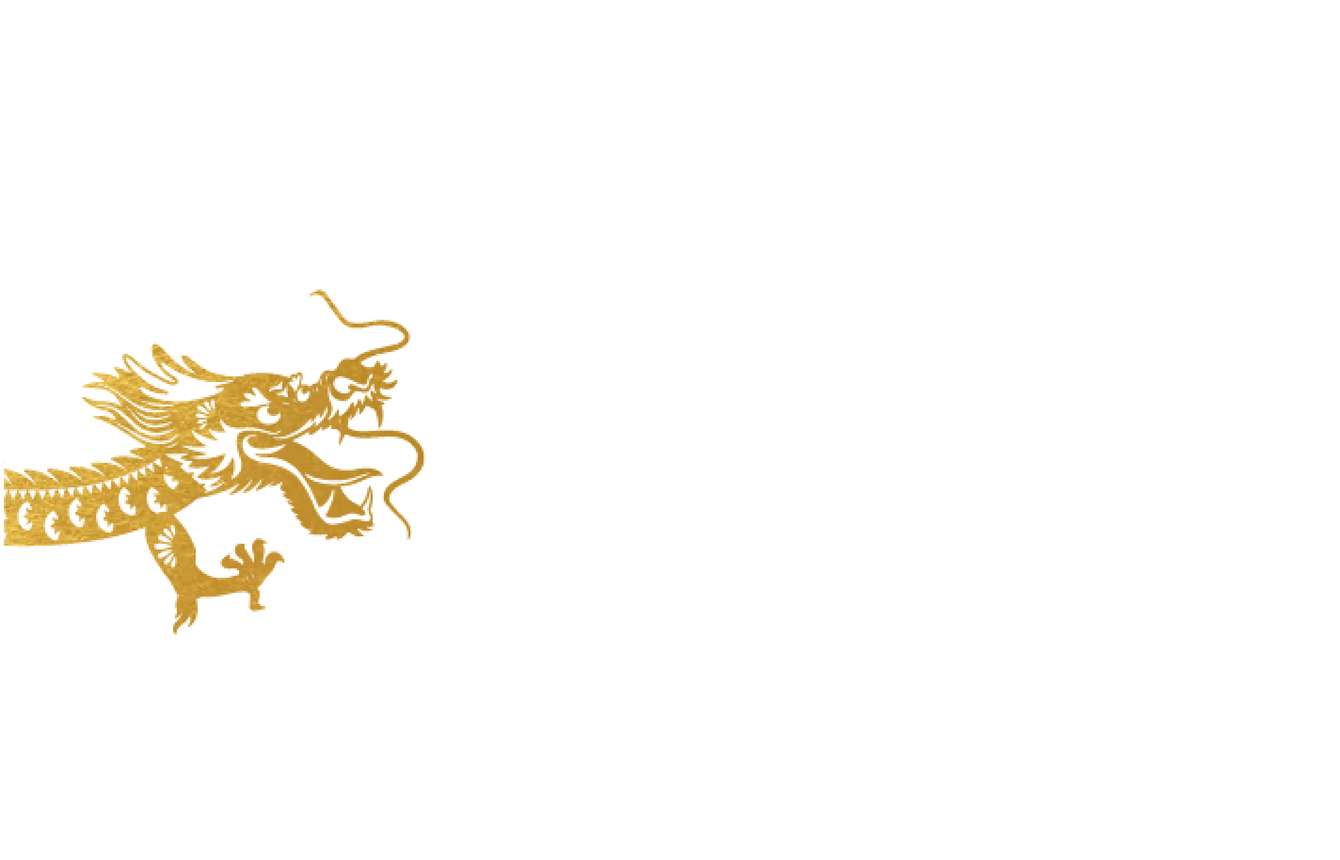
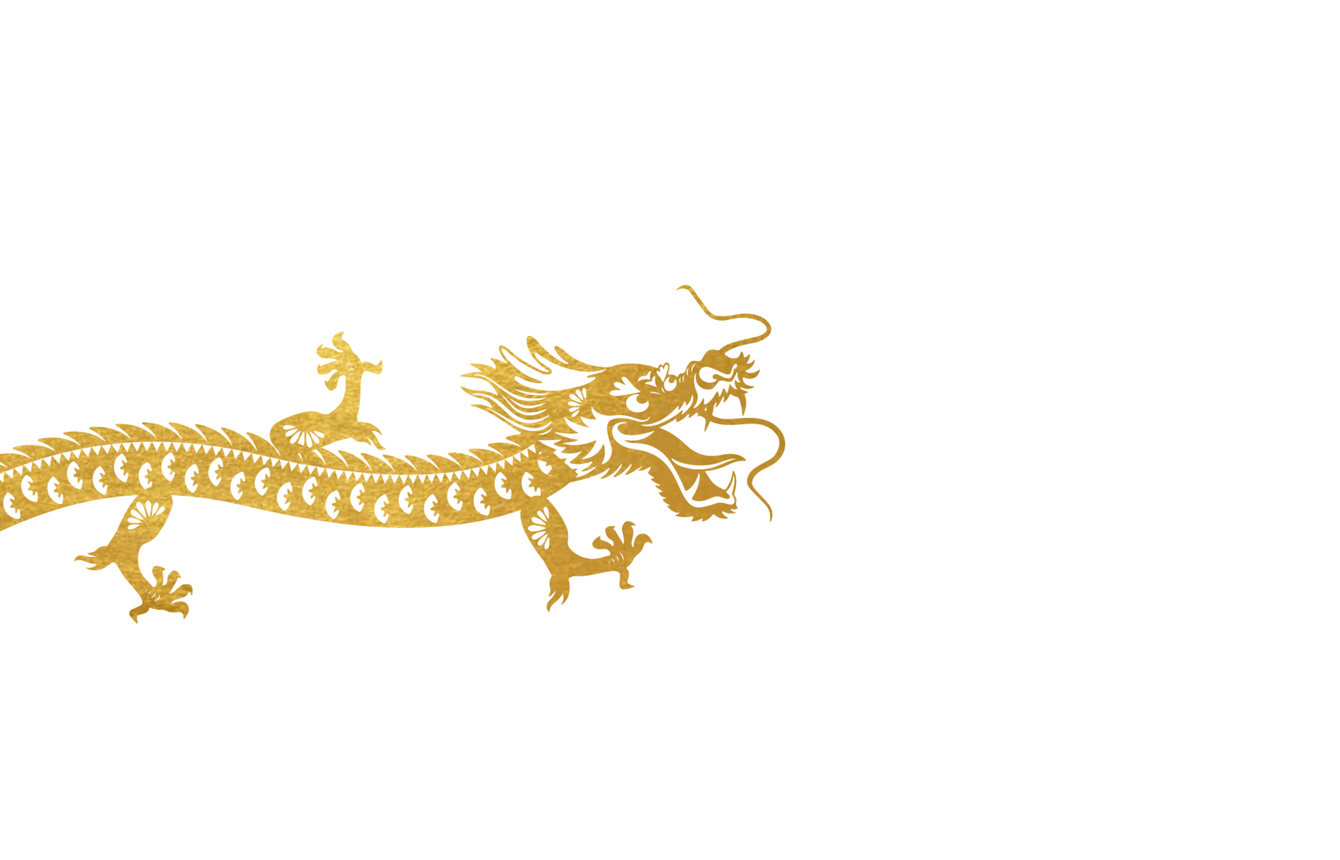
[modify] change image

Changed region(s): [[0.0, 0.3421, 0.59, 0.7463], [0.2174, 0.3421, 0.2484, 0.3731]]

diff --git a/docs/assets/index-e0ca7d98.css b/docs/assets/index-e0ca7d98.css
@@ -1,4 +1,4 @@
-@charset "UTF-8";@import"//fonts.googleapis.com/earlyaccess/notosanstc.css";:root{--vt-c-white: #ffffff;--vt-c-white-soft: #f8f8f8;--vt-c-white-mute: #f2f2f2;--vt-c-black: #181818;--vt-c-black-soft: #222222;--vt-c-black-mute: #282828;--vt-c-indigo: #2c3e50;--vt-c-divider-light-1: rgba(60, 60, 60, .29);--vt-c-divider-light-2: rgba(60, 60, 60, .12);--vt-c-divider-dark-1: rgba(84, 84, 84, .65);--vt-c-divider-dark-2: rgba(84, 84, 84, .48);--vt-c-text-light-1: var(--vt-c-indigo);--vt-c-text-light-2: rgba(60, 60, 60, .66);--vt-c-text-dark-1: var(--vt-c-white);--vt-c-text-dark-2: rgba(235, 235, 235, .64)}:root{--color-background: var(--vt-c-white);--color-background-soft: var(--vt-c-white-soft);--color-background-mute: var(--vt-c-white-mute);--color-border: var(--vt-c-divider-light-2);--color-border-hover: var(--vt-c-divider-light-1);--color-heading: var(--vt-c-text-light-1);--color-text: var(--vt-c-text-light-1);--section-gap: 160px}@media (prefers-color-scheme: dark){:root{--color-background: var(--vt-c-black);--color-background-soft: var(--vt-c-black-soft);--color-background-mute: var(--vt-c-black-mute);--color-border: var(--vt-c-divider-dark-2);--color-border-hover: var(--vt-c-divider-dark-1);--color-heading: var(--vt-c-text-dark-1);--color-text: var(--vt-c-text-dark-2)}}*,*:before,*:after{box-sizing:border-box;margin:0;font-weight:400}body{min-height:100vh;color:var(--color-text);background:var(--color-background);transition:color .5s,background-color .5s;line-height:1.6;font-family:Inter,-apple-system,BlinkMacSystemFont,Segoe UI,Roboto,Oxygen,Ubuntu,Cantarell,Fira Sans,Droid Sans,Helvetica Neue,sans-serif;font-size:15px;text-rendering:optimizeLegibility;-webkit-font-smoothing:antialiased;-moz-osx-font-smoothing:grayscale}body{font-family:Noto Sans TC,微軟正黑體,sans-serif!important;padding:0;margin:0}main{max-width:2733px;max-height:2049px;width:100%;height:100%;left:0;top:0;margin:0 auto;background-image:url(../assets/img/black_bg.png);position:absolute;background-position:top center;background-repeat:no-repeat;background-size:cover}main.yellow_bg{background-image:url(../assets/img/yellow_bg.png)}main.game_bg{background-image:url(../assets/img/game_bg.png)}main.game_intro_bg{background-image:url(../assets/img/game_intro_bg.png)}main.charm_bg{background-image:url(../assets/img/charm_bg.png)}main.final_bg{background-image:url(../assets/img/final_bg.png)}main .index_title_full{position:absolute;top:0;left:0;width:100%;height:100%;background-image:url(../assets/img/index_title.png);background-position:top -80px center;background-repeat:no-repeat;background-size:80%;z-index:2}main .game_header{position:absolute;top:0;left:0;width:100%;height:100%;background-image:url(../assets/img/game_header.png);background-position:top center;background-repeat:no-repeat;background-size:contain;z-index:2}main .game_header .game_score_ball{position:relative;width:5vw;height:5vw;background-position:center center;background-repeat:no-repeat;background-size:cover;z-index:1;margin:4vh .5vw;top:0;display:inline-block}main .game_header .game_score_ball:first-child{margin-left:3.2vw}main .game_header .game_score_ball.wind_ball{background-image:url(../assets/img/game_ball_wind.png)}main .game_header .game_score_ball.cloud_ball{background-image:url(../assets/img/game_ball_cloud.png)}main .game_header .game_score_ball.infinite_ball{background-image:url(../assets/img/game_ball_infinite.png)}main .left_top_logo{position:absolute;top:50px;left:30px;width:290px;height:53px;background-image:url(../assets/img/logo.png);background-position:center center;background-repeat:no-repeat;background-size:cover;z-index:1}main .right_top_play_button{position:absolute;top:35px;right:35px;width:70px;height:70px;background-image:url(../assets/img/right_top_play_button.png);background-position:center center;background-repeat:no-repeat;background-size:cover;z-index:10}main .main_product_full{position:absolute;top:0;left:0;width:100%;height:100%;background-image:url(../assets/img/main_product_full.png);background-position:top center;background-repeat:no-repeat;background-size:cover;z-index:1}main .charm_main{position:absolute;top:12vh;left:16vw;width:28vw;height:45vw;background-image:url(../assets/img/charm.png),url(../assets/img/charm_shadow.png);background-position:center center;background-repeat:no-repeat;background-size:cover,120%;z-index:1}main .charm_ball{position:absolute;top:0;left:0;width:11vw;height:11vw;background-position:center center;background-repeat:no-repeat;background-size:cover,188%;z-index:1}main .charm_ball.charm_ball_cloud{top:40vh;left:3vw;background-image:url(../assets/img/game_ball_cloud.png),url(../assets/img/game_ball_shadow.png);animation:floatAnimationCloud 6s infinite}main .charm_ball.charm_ball_wind{top:67vh;left:43vw;background-image:url(../assets/img/game_ball_wind.png),url(../assets/img/game_ball_shadow.png);animation:floatAnimationWind 10s infinite}main .charm_ball.charm_ball_infinite{top:10vh;left:45vw;background-image:url(../assets/img/game_ball_infinite.png),url(../assets/img/game_ball_shadow.png);animation:floatAnimationInfinite 8s infinite}@keyframes floatAnimationCloud{0%{transform:translateY(0) rotate(0)}50%{transform:translateY(-15px) rotate(-3deg)}to{transform:translateY(0) rotate(0)}}@keyframes floatAnimationInfinite{0%{transform:translateY(0) rotate(0)}50%{transform:translateY(-10px) translate(-15px) rotate(-3deg)}to{transform:translateY(0) rotate(0)}}@keyframes floatAnimationWind{0%{transform:translateY(0) rotate(0)}50%{transform:translateY(10px) translate(-15px) rotate(-3deg)}to{transform:translateY(0) rotate(0)}}main .left_down_cloud{position:absolute;bottom:0;left:0;width:50%;height:40%;background-image:url(../assets/img/left_down_cloud.png);background-position:center center;background-repeat:no-repeat;background-size:cover;z-index:3}main .right_down_belt{position:absolute;bottom:0;right:0;width:100%;height:100%;background-image:url(../assets/img/right_belt_slogan.png);background-position:center center;background-repeat:no-repeat;background-size:cover;z-index:1}main .ground{position:absolute;bottom:0;left:0;width:100%;height:25%;background-image:url(../assets/img/ground.png);background-position:bottom center;background-repeat:no-repeat;background-size:cover}main .ground_wave{position:absolute;bottom:0;left:0;width:100%;height:20%;background-image:url(../assets/img/wave_ground.png);background-position:bottom center;background-repeat:no-repeat;background-size:cover;z-index:2}main .ground_wave.intro_1{z-index:4}main .ground_wave.intro_2{z-index:3}main .left_down_woman_full{position:absolute;top:0;left:0;width:100%;height:100%;background-image:url(../assets/img/woman.png);background-position:center center;background-repeat:no-repeat;background-size:cover;z-index:5}main .left_down_woman_small{position:absolute;top:0;left:0;width:100%;height:100%;background-image:url(../assets/img/woman.png);background-position:top 100% left;background-repeat:no-repeat;background-size:70%;z-index:5}main .dragon_right_small{position:absolute;bottom:20%;right:0%;width:20%;height:72%;background-image:url(../assets/img/dragon_right_small.png);background-position:top left;background-repeat:no-repeat;background-size:cover}main .dragon_right_big_full{position:absolute;bottom:0%;right:0%;width:100%;height:100%;background-image:url(../assets/img/dragon_right_big.png);background-position:top -80px right -180px;background-repeat:no-repeat;background-size:105%}main .left_top_logo_full{position:absolute;top:0;left:0;width:100%;height:100%;background-image:url(../assets/img/logo_left_top.png);background-position:top -100px left;background-repeat:no-repeat;background-size:110%;z-index:1}main .intro_2_main_full{position:absolute;top:0;left:0;width:100%;height:100%;background-image:url(../assets/img/intro_2_main.png);background-position:top 50px left -10px;background-repeat:no-repeat;background-size:cover;z-index:1}main .intro_2_main_title{position:absolute;top:0;left:0;width:100%;height:100%;background-image:url(../assets/img/intro_2_title.png);background-position:center center;background-repeat:no-repeat;background-size:cover;z-index:1}main .intro_ball{position:absolute;top:0;width:33.3333333333%;height:100%;z-index:1;color:#d6bd57;text-align:center}main .intro_ball h1{font-size:50px;font-weight:900}main .intro_ball .intro_ball_img{position:relative;top:0;left:0;width:80%;height:350px;margin:19.5vh auto 0;background-position:center center;background-repeat:no-repeat;background-size:contain}main .intro_ball.intro_ball_1{left:0}main .intro_ball.intro_ball_1 .intro_ball_img{background-image:url(../assets/img/game_ball_cloud.png)}main .intro_ball.intro_ball_2{left:34%}main .intro_ball.intro_ball_2 .intro_ball_img{background-image:url(../assets/img/game_ball_wind.png)}main .intro_ball.intro_ball_3{left:66%}main .intro_ball.intro_ball_3 .intro_ball_img{background-image:url(../assets/img/game_ball_infinite.png)}main .right_down_belt_without_slogan{position:absolute;bottom:0;right:0;width:100%;height:100%;background-image:url(../assets/img/right_down_belt_without_slogan.png);background-position:right bottom;background-repeat:no-repeat;background-size:80%;z-index:3}main .game_frame{position:absolute;top:0;left:0;width:100%;height:100%;background-image:url(../assets/img/game_frame.png);background-position:bottom 18% center;background-repeat:no-repeat;background-size:95%;z-index:4}@keyframes floatAnimation{0%{transform:translateY(0) rotate(0)}50%{transform:translateY(-30px) rotate(-3deg)}to{transform:translateY(0) rotate(0)}}main .game_dragon{position:absolute;top:25%;left:0;width:50%;height:40%;background-image:url(../assets/img/side_dragon.png);background-position:center left;background-repeat:no-repeat;background-size:175%;z-index:1;animation:floatAnimation 6s infinite}main .game_ball_rails{position:absolute;top:0;left:0;width:100%;height:100%;z-index:10;overflow:hidden}main .game_ball_rails .game_ball{position:absolute;width:100px;height:100px;z-index:1;animation:ballAnimation 8s linear forwards}main .game_ball_rails .game_ball.clicked{animation-play-state:paused}main .game_ball_rails .game_ball.clicked .ball_container{animation:clickAnimation .2s linear forwards}main .game_ball_rails .game_ball .ball_container{position:absolute;width:100px;height:100px;top:0;left:0;background-image:url(../assets/img/game_ball.png);background-position:center center;background-repeat:no-repeat;background-size:cover}main .game_ball_rails .game_ball .ball_container.wind_ball{background-image:url(../assets/img/game_ball_wind.png)}main .game_ball_rails .game_ball .ball_container.cloud_ball{background-image:url(../assets/img/game_ball_cloud.png)}main .game_ball_rails .game_ball .ball_container.infinite_ball{background-image:url(../assets/img/game_ball_infinite.png)}@keyframes clickAnimation{0%{transform:scale(1)}50%{transform:scale(.8)}to{transform:scale(1)}}main .game_ball_rails .game_ball .game_ball_text{position:absolute;left:110px;width:200px;color:#dc000c;font-size:30px;font-weight:900;line-height:85px;text-shadow:2px 2px 3px #f0bd6e,-2px 2px 3px #f0bd6e,-2px -2px 0 #f0bd6e,2px -2px 0 #f0bd6e;animation:textAnimation .1s linear forwards}@keyframes textAnimation{0%{transform:translate(-110px);opacity:0}to{transform:translate(0);opacity:1}}main .game_ball_rails .game_ball .game_ball_light{position:absolute;left:-50px;top:-50px;width:200px;height:200px;background-image:url(../assets/img/ball_light.png);background-position:center center;background-repeat:no-repeat;background-size:contain;z-index:-1;opacity:.3}main .game_ball_rails .game_ball .game_ball_star{position:absolute;left:-50px;top:-50px;width:150px;height:200px;background-image:url(../assets/img/game_ball_star.png);background-position:center center;background-repeat:no-repeat;background-size:contain;animation:starAnimation .1s linear forwards}@keyframes starAnimation{0%{transform:scale(.5);opacity:0}to{transform:scale(1);opacity:1}}@keyframes ballAnimation{0%{transform:translate(110vw)}to{transform:translate(-10vw)}}main .game_ball_rails .game_ball_rail_1{height:10%;width:100%;top:20%;position:absolute}main .game_ball_rails .game_ball_rail_2{height:10%;width:100%;top:35%;position:absolute}main .game_ball_rails .game_ball_rail_3{height:10%;width:100%;top:50%;position:absolute}main .game_ball_rails .game_ball_rail_4{height:10%;width:100%;top:65%;position:absolute}main .game_ball_rails .game_ball_rail_5{height:10%;width:100%;top:80%;position:absolute}main .countdown{position:absolute;top:0;left:calc(50% - 100px);width:200px;height:100%;z-index:3;background-position:center left;background-repeat:no-repeat;background-size:100%;animation:fadein 1s,fadeout 1s 3s}main .countdown.countdown_3{background-image:url(../assets/img/game_count_down_3.png)}main .countdown.countdown_2{background-image:url(../assets/img/game_count_down_2.png)}main .countdown.countdown_1{background-image:url(../assets/img/game_count_down_1.png)}@keyframes fadein{0%{opacity:0}to{opacity:1}}@keyframes fadeout{0%{opacity:1}to{opacity:0}}main .intro_slogan{font-size:25px;top:35%;left:32%;position:absolute;z-index:3}/*!
+@charset "UTF-8";@import"//fonts.googleapis.com/earlyaccess/notosanstc.css";:root{--vt-c-white: #ffffff;--vt-c-white-soft: #f8f8f8;--vt-c-white-mute: #f2f2f2;--vt-c-black: #181818;--vt-c-black-soft: #222222;--vt-c-black-mute: #282828;--vt-c-indigo: #2c3e50;--vt-c-divider-light-1: rgba(60, 60, 60, .29);--vt-c-divider-light-2: rgba(60, 60, 60, .12);--vt-c-divider-dark-1: rgba(84, 84, 84, .65);--vt-c-divider-dark-2: rgba(84, 84, 84, .48);--vt-c-text-light-1: var(--vt-c-indigo);--vt-c-text-light-2: rgba(60, 60, 60, .66);--vt-c-text-dark-1: var(--vt-c-white);--vt-c-text-dark-2: rgba(235, 235, 235, .64)}:root{--color-background: var(--vt-c-white);--color-background-soft: var(--vt-c-white-soft);--color-background-mute: var(--vt-c-white-mute);--color-border: var(--vt-c-divider-light-2);--color-border-hover: var(--vt-c-divider-light-1);--color-heading: var(--vt-c-text-light-1);--color-text: var(--vt-c-text-light-1);--section-gap: 160px}@media (prefers-color-scheme: dark){:root{--color-background: var(--vt-c-black);--color-background-soft: var(--vt-c-black-soft);--color-background-mute: var(--vt-c-black-mute);--color-border: var(--vt-c-divider-dark-2);--color-border-hover: var(--vt-c-divider-dark-1);--color-heading: var(--vt-c-text-dark-1);--color-text: var(--vt-c-text-dark-2)}}*,*:before,*:after{box-sizing:border-box;margin:0;font-weight:400}body{min-height:100vh;color:var(--color-text);background:var(--color-background);transition:color .5s,background-color .5s;line-height:1.6;font-family:Inter,-apple-system,BlinkMacSystemFont,Segoe UI,Roboto,Oxygen,Ubuntu,Cantarell,Fira Sans,Droid Sans,Helvetica Neue,sans-serif;font-size:15px;text-rendering:optimizeLegibility;-webkit-font-smoothing:antialiased;-moz-osx-font-smoothing:grayscale}body{font-family:Noto Sans TC,微軟正黑體,sans-serif!important;padding:0;margin:0}main{max-width:2733px;max-height:2049px;width:100%;height:100%;left:0;top:0;margin:0 auto;background-image:url(../assets/img/black_bg.png);position:absolute;background-position:top center;background-repeat:no-repeat;background-size:cover}main.yellow_bg{background-image:url(../assets/img/yellow_bg.png)}main.game_bg{background-image:url(../assets/img/game_bg.png)}main.game_intro_bg{background-image:url(../assets/img/game_intro_bg.png)}main.charm_bg{background-image:url(../assets/img/charm_bg.png)}main.final_bg{background-image:url(../assets/img/final_bg.png)}main .index_title_full{position:absolute;top:0;left:0;width:100%;height:100%;background-image:url(../assets/img/index_title.png);background-position:top -80px center;background-repeat:no-repeat;background-size:80%;z-index:2}main .game_header{position:absolute;top:0;left:0;width:100%;height:100%;background-image:url(../assets/img/game_header.png);background-position:top center;background-repeat:no-repeat;background-size:contain;z-index:2}main .game_header .game_score_ball{position:relative;width:5vw;height:5vw;background-position:center center;background-repeat:no-repeat;background-size:cover;z-index:1;margin:4vh .5vw;top:0;display:inline-block}main .game_header .game_score_ball:first-child{margin-left:3.2vw}main .game_header .game_score_ball.wind_ball{background-image:url(../assets/img/game_ball_wind.png)}main .game_header .game_score_ball.cloud_ball{background-image:url(../assets/img/game_ball_cloud.png)}main .game_header .game_score_ball.infinite_ball{background-image:url(../assets/img/game_ball_infinite.png)}main .left_top_logo{position:absolute;top:50px;left:30px;width:290px;height:53px;background-image:url(../assets/img/logo.png);background-position:center center;background-repeat:no-repeat;background-size:cover;z-index:1}main .right_top_play_button{position:absolute;top:35px;right:35px;width:70px;height:70px;background-image:url(../assets/img/right_top_play_button.png);background-position:center center;background-repeat:no-repeat;background-size:cover;z-index:10}main .main_product_full{position:absolute;top:0;left:0;width:100%;height:100%;background-image:url(../assets/img/main_product_full.png);background-position:top 80px center;background-repeat:no-repeat;background-size:cover;z-index:1}main .charm_main{position:absolute;top:12vh;left:16vw;width:28vw;height:45vw;background-image:url(../assets/img/charm.png),url(../assets/img/charm_shadow.png);background-position:center center;background-repeat:no-repeat;background-size:cover,120%;z-index:1}main .charm_ball{position:absolute;top:0;left:0;width:11vw;height:11vw;background-position:center center;background-repeat:no-repeat;background-size:cover,188%;z-index:1}main .charm_ball.charm_ball_cloud{top:40vh;left:3vw;background-image:url(../assets/img/game_ball_cloud.png),url(../assets/img/game_ball_shadow.png);animation:floatAnimationCloud 6s infinite}main .charm_ball.charm_ball_wind{top:67vh;left:43vw;background-image:url(../assets/img/game_ball_wind.png),url(../assets/img/game_ball_shadow.png);animation:floatAnimationWind 10s infinite}main .charm_ball.charm_ball_infinite{top:10vh;left:45vw;background-image:url(../assets/img/game_ball_infinite.png),url(../assets/img/game_ball_shadow.png);animation:floatAnimationInfinite 8s infinite}@keyframes floatAnimationCloud{0%{transform:translateY(0) rotate(0)}50%{transform:translateY(-15px) rotate(-3deg)}to{transform:translateY(0) rotate(0)}}@keyframes floatAnimationInfinite{0%{transform:translateY(0) rotate(0)}50%{transform:translateY(-10px) translate(-15px) rotate(-3deg)}to{transform:translateY(0) rotate(0)}}@keyframes floatAnimationWind{0%{transform:translateY(0) rotate(0)}50%{transform:translateY(10px) translate(-15px) rotate(-3deg)}to{transform:translateY(0) rotate(0)}}main .left_down_cloud{position:absolute;bottom:0;left:0;width:50%;height:40%;background-image:url(../assets/img/left_down_cloud.png);background-position:center center;background-repeat:no-repeat;background-size:cover;z-index:3}main .right_down_belt{position:absolute;bottom:0;right:0;width:100%;height:100%;background-image:url(../assets/img/right_belt_slogan.png);background-position:center center;background-repeat:no-repeat;background-size:cover;z-index:1}main .ground{position:absolute;bottom:0;left:0;width:100%;height:25%;background-image:url(../assets/img/ground.png);background-position:bottom center;background-repeat:no-repeat;background-size:cover}main .ground_wave{position:absolute;bottom:0;left:0;width:100%;height:20%;background-image:url(../assets/img/wave_ground.png);background-position:bottom center;background-repeat:no-repeat;background-size:cover;z-index:2}main .ground_wave.intro_1{z-index:4}main .ground_wave.intro_2{z-index:3}main .left_down_woman_full{position:absolute;top:0;left:0;width:100%;height:100%;background-image:url(../assets/img/woman.png);background-position:center center;background-repeat:no-repeat;background-size:cover;z-index:5}main .left_down_woman_small{position:absolute;top:0;left:0;width:100%;height:100%;background-image:url(../assets/img/woman.png);background-position:top 100% left;background-repeat:no-repeat;background-size:70%;z-index:5}main .dragon_right_small{position:absolute;bottom:15%;right:0%;width:20%;height:72%;background-image:url(../assets/img/dragon_right_small.png);background-position:top left;background-repeat:no-repeat;background-size:cover}main .dragon_right_big_full{position:absolute;bottom:0%;right:0%;width:100%;height:100%;background-image:url(../assets/img/dragon_right_big.png);background-position:top -80px right -180px;background-repeat:no-repeat;background-size:105%}main .left_top_logo_full{position:absolute;top:0;left:0;width:100%;height:100%;background-image:url(../assets/img/logo_left_top.png);background-position:top -100px left;background-repeat:no-repeat;background-size:110%;z-index:1}main .intro_2_main_full{position:absolute;top:0;left:0;width:100%;height:100%;background-image:url(../assets/img/intro_2_main.png);background-position:top 50px left -10px;background-repeat:no-repeat;background-size:cover;z-index:1}main .intro_2_main_title{position:absolute;top:0;left:0;width:100%;height:100%;background-image:url(../assets/img/intro_2_title.png);background-position:center center;background-repeat:no-repeat;background-size:cover;z-index:1}main .intro_ball{position:absolute;top:0;width:33.3333333333%;height:100%;z-index:1;color:#d6bd57;text-align:center}main .intro_ball h1{font-size:50px;font-weight:900}main .intro_ball .intro_ball_img{position:relative;top:0;left:0;width:80%;height:350px;margin:19.5vh auto 0;background-position:center center;background-repeat:no-repeat;background-size:contain}main .intro_ball.intro_ball_1{left:0}main .intro_ball.intro_ball_1 .intro_ball_img{background-image:url(../assets/img/game_ball_cloud.png)}main .intro_ball.intro_ball_2{left:34%}main .intro_ball.intro_ball_2 .intro_ball_img{background-image:url(../assets/img/game_ball_wind.png)}main .intro_ball.intro_ball_3{left:66%}main .intro_ball.intro_ball_3 .intro_ball_img{background-image:url(../assets/img/game_ball_infinite.png)}main .right_down_belt_without_slogan{position:absolute;bottom:0;right:0;width:100%;height:100%;background-image:url(../assets/img/right_down_belt_without_slogan.png);background-position:right bottom;background-repeat:no-repeat;background-size:80%;z-index:3}main .game_frame{position:absolute;top:0;left:0;width:100%;height:100%;background-image:url(../assets/img/game_frame.png);background-position:bottom 18% center;background-repeat:no-repeat;background-size:95%;z-index:4}@keyframes floatAnimation{0%{transform:translateY(0) rotate(0)}50%{transform:translate(-30px,-30px) rotate(-3deg)}to{transform:translateY(0) rotate(0)}}main .game_dragon{background-image:url(../assets/img/side_dragon.png);position:absolute;top:0;left:0;width:100%;height:100%;background-position:center left;background-repeat:no-repeat;background-size:100%;z-index:1;animation:floatAnimation 6s infinite}main .game_ball_rails{position:absolute;top:0;left:0;width:100%;height:100%;z-index:10;overflow:hidden}main .game_ball_rails .game_ball{position:absolute;width:100px;height:100px;z-index:1;animation:ballAnimation 8s linear forwards}main .game_ball_rails .game_ball.clicked{animation-play-state:paused}main .game_ball_rails .game_ball.clicked .ball_container{animation:clickAnimation .2s linear forwards}main .game_ball_rails .game_ball .ball_container{position:absolute;width:100px;height:100px;top:0;left:0;background-image:url(../assets/img/game_ball.png);background-position:center center;background-repeat:no-repeat;background-size:cover}main .game_ball_rails .game_ball .ball_container.wind_ball{background-image:url(../assets/img/game_ball_wind.png)}main .game_ball_rails .game_ball .ball_container.cloud_ball{background-image:url(../assets/img/game_ball_cloud.png)}main .game_ball_rails .game_ball .ball_container.infinite_ball{background-image:url(../assets/img/game_ball_infinite.png)}@keyframes clickAnimation{0%{transform:scale(1)}50%{transform:scale(.8)}to{transform:scale(1)}}main .game_ball_rails .game_ball .game_ball_text{position:absolute;left:110px;width:200px;color:#dc000c;font-size:30px;font-weight:900;line-height:85px;text-shadow:2px 2px 3px #f0bd6e,-2px 2px 3px #f0bd6e,-2px -2px 0 #f0bd6e,2px -2px 0 #f0bd6e;animation:textAnimation .1s linear forwards}@keyframes textAnimation{0%{transform:translate(-110px);opacity:0}to{transform:translate(0);opacity:1}}main .game_ball_rails .game_ball .game_ball_light{position:absolute;left:-50px;top:-50px;width:200px;height:200px;background-image:url(../assets/img/ball_light.png);background-position:center center;background-repeat:no-repeat;background-size:contain;z-index:-1;opacity:.3}main .game_ball_rails .game_ball .game_ball_star{position:absolute;left:-50px;top:-50px;width:150px;height:200px;background-image:url(../assets/img/game_ball_star.png);background-position:center center;background-repeat:no-repeat;background-size:contain;animation:starAnimation .1s linear forwards}@keyframes starAnimation{0%{transform:scale(.5);opacity:0}to{transform:scale(1);opacity:1}}@keyframes ballAnimation{0%{transform:translate(110vw)}to{transform:translate(-10vw)}}main .game_ball_rails .game_ball_rail_1{height:10%;width:100%;top:20%;position:absolute}main .game_ball_rails .game_ball_rail_2{height:10%;width:100%;top:35%;position:absolute}main .game_ball_rails .game_ball_rail_3{height:10%;width:100%;top:50%;position:absolute}main .game_ball_rails .game_ball_rail_4{height:10%;width:100%;top:65%;position:absolute}main .game_ball_rails .game_ball_rail_5{height:10%;width:100%;top:80%;position:absolute}main .countdown{position:absolute;top:0;left:calc(50% - 100px);width:200px;height:100%;z-index:3;background-position:center left;background-repeat:no-repeat;background-size:100%;animation:fadein 1s,fadeout 1s 3s}main .countdown.countdown_3{background-image:url(../assets/img/game_count_down_3.png)}main .countdown.countdown_2{background-image:url(../assets/img/game_count_down_2.png)}main .countdown.countdown_1{background-image:url(../assets/img/game_count_down_1.png)}@keyframes fadein{0%{opacity:0}to{opacity:1}}@keyframes fadeout{0%{opacity:1}to{opacity:0}}main .intro_slogan{font-size:25px;top:35%;left:32%;position:absolute;z-index:3}/*!
 * Bootstrap  v5.3.2 (https://getbootstrap.com/)
 * Copyright 2011-2023 The Bootstrap Authors
 * Licensed under MIT (https://github.com/twbs/bootstrap/blob/main/LICENSE)

diff --git a/docs/sw.js b/docs/sw.js
@@ -1,1 +1,1 @@
-if(!self.define){let e,i={};const a=(a,s)=>(a=new URL(a+".js",s).href,i[a]||new Promise((i=>{if("document"in self){const e=document.createElement("script");e.src=a,e.onload=i,document.head.appendChild(e)}else e=a,importScripts(a),i()})).then((()=>{let e=i[a];if(!e)throw new Error(`Module ${a} didn’t register its module`);return e})));self.define=(s,n)=>{const r=e||("document"in self?document.currentScript.src:"")||location.href;if(i[r])return;let c={};const d=e=>a(e,r),o={module:{uri:r},exports:c,require:d};i[r]=Promise.all(s.map((e=>o[e]||d(e)))).then((e=>(n(...e),c)))}}define(["./workbox-fa446783"],(function(e){"use strict";self.skipWaiting(),e.clientsClaim(),e.precacheAndRoute([{url:"assets/index-b5266563.css",revision:null},{url:"assets/index-c2d608b2.js",revision:null},{url:"index.html",revision:"cf85a6e248a8f47b95e5b20a1e31205d"},{url:"registerSW.js",revision:"1872c500de691dce40960bb85481de07"},{url:"321.mp3",revision:"3bd591d610049c259f3768fd35f8ba0f"},{url:"audio-speaker-off.png",revision:"e46a88ab8493f86764cbe64dd250adf5"},{url:"audio-speaker-on.png",revision:"0f68480c86cd9569a7bd660ea0b1abb1"},{url:"bg.mp3",revision:"1939fe9c9d71e53d960f581d068bd9ed"},{url:"click.mp3",revision:"0549e1376c71663510db6425f2b10d4e"},{url:"pwa-logo.png",revision:"ecc5baf4ff30ede170fc950900658b74"},{url:"assets/img/12_14_finished.png",revision:"a870acbf48cc8d64d949abd03ab92052"},{url:"assets/img/ball_light.png",revision:"11ffa497bd4e6f5ba8789b584b464348"},{url:"assets/img/black_bg.png",revision:"2c019e9e6bccf9f989349f8b4902df4d"},{url:"assets/img/charm.png",revision:"7a59770e7caaa60af67a447a67f842f1"},{url:"assets/img/charm_bg.png",revision:"8cbacc76583d1c30f68951fdd04853a2"},{url:"assets/img/charm_shadow.png",revision:"86b80104720873d004d1647e19a723f3"},{url:"assets/img/dragon_right_big.png",revision:"ab83fd69d5b4f3120fda3eeabe7624b5"},{url:"assets/img/dragon_right_small.png",revision:"684a7760bf27b17b2f04fa6dcb6ebe5e"},{url:"assets/img/final_bg.png",revision:"407d758e0a49c25dd1c33995f34a4c5e"},{url:"assets/img/game_ball.png",revision:"deae6db0f7233ab3299a7c1adbca2372"},{url:"assets/img/game_ball_cloud.png",revision:"5c66e37a987089a9a03389eccf4bf39a"},{url:"assets/img/game_ball_infinite.png",revision:"eb7bb876bad1c0e7d6a8a3e12f31939e"},{url:"assets/img/game_ball_shadow.png",revision:"f14fabcca4dcf82a15e244795d04088c"},{url:"assets/img/game_ball_star.png",revision:"adc6fa1f181f27739f247749d7174809"},{url:"assets/img/game_ball_wind.png",revision:"cc1724b3a3a0015b55884a11a5a0156b"},{url:"assets/img/game_bg.png",revision:"266fa85d2f8a6e8577a09583253ad348"},{url:"assets/img/game_count_down_1.png",revision:"f859b94ffa931eb4905349206055dc31"},{url:"assets/img/game_count_down_2.png",revision:"4fd6d3c6a62e7bfd9ae5c13058d5c640"},{url:"assets/img/game_count_down_3.png",revision:"f5cea6cd0ee93bd623e5185a77307eda"},{url:"assets/img/game_frame.png",revision:"d4c0c7479a3e64ad69362b318e416d94"},{url:"assets/img/game_header.png",revision:"28bfb3ca5717aa08a1f29a76af22f076"},{url:"assets/img/game_intro_bg.png",revision:"1cc102c7f1f418e3e3d1d65a71c6ade2"},{url:"assets/img/ground.png",revision:"3d676879acc881ff0c9f6a341cfcd5a8"},{url:"assets/img/index_title.png",revision:"b46a6cd97f431cc5642c1f8f71c2bd1a"},{url:"assets/img/intro_2_main.png",revision:"2b25254eb89d6118aefe39fd1d9f570f"},{url:"assets/img/intro_2_title.png",revision:"e5a29516eb7efd52bb9f2b3145807ed2"},{url:"assets/img/left_down_cloud.png",revision:"ea9a97fd0861b55bfc00664f990103a4"},{url:"assets/img/logo.png",revision:"5ea8c0e167ad97e21d6dd32295f53a2a"},{url:"assets/img/logo_left_top.png",revision:"5105f4b42da1e5adb9f9ba970a388788"},{url:"assets/img/main_product_full.png",revision:"f9c457d9e6534de2df7f7a8f104045ba"},{url:"assets/img/right_belt_slogan.png",revision:"2e2d8f48c4ab5a5ae8df706fb001f499"},{url:"assets/img/right_down_belt_without_slogan.png",revision:"162d7093e3735f6eb114ea09f10d1169"},{url:"assets/img/right_top_play_button.png",revision:"1d8f6b2392822e67f1ed8721a7282989"},{url:"assets/img/side_dragon.png",revision:"0421d6817b5797d9d32c1ba28d18c05d"},{url:"assets/img/wave_ground.png",revision:"2e6c8f7ec31b53c681ae5e4fb721f08f"},{url:"assets/img/woman.png",revision:"7a0e3bb88a54e81e1091a5b846b8bf45"},{url:"assets/img/yellow_bg.png",revision:"9aee5a12e6b5cdd2dacf847ac39b736f"},{url:"img/icons/android-chrome-192x192.png",revision:"3ef4a95391ff2bfd5f442ea89292b3fa"},{url:"img/icons/android-chrome-512x512.png",revision:"4fd10861636b509a53d091e1c6cd8f64"},{url:"img/icons/android-chrome-maskable-192x192.png",revision:"3ef4a95391ff2bfd5f442ea89292b3fa"},{url:"img/icons/android-chrome-maskable-512x512.png",revision:"4fd10861636b509a53d091e1c6cd8f64"},{url:"img/icons/apple-touch-icon-120x120.png",revision:"c24de0bfa43e42fd8568d1b38262c4c3"},{url:"img/icons/apple-touch-icon-152x152.png",revision:"de8e6c5c1e047c79711200a9529be00e"},{url:"img/icons/apple-touch-icon-180x180.png",revision:"f66b5015d880335cb607d474025316e8"},{url:"img/icons/apple-touch-icon-60x60.png",revision:"91035985e360cd3b9e443066bccdc53a"},{url:"img/icons/apple-touch-icon-76x76.png",revision:"c14d8293625bbec500e0e9dec5848336"},{url:"img/icons/apple-touch-icon.png",revision:"f66b5015d880335cb607d474025316e8"},{url:"img/icons/favicon-16x16.png",revision:"49610a9d0e3026ebfaec1aa32f22b67f"},{url:"img/icons/favicon-32x32.png",revision:"e3c7c3355821030a05ac1e54e105e973"},{url:"img/icons/msapplication-icon-144x144.png",revision:"4db12ddb2969ae559fe8cc63810e7747"},{url:"img/icons/mstile-150x150.png",revision:"8bf70c634505b233c8b293cf3a749278"},{url:"img/icons/safari-pinned-tab.svg",revision:"86b564b18ea6c7e170fa6cb87ca03bcf"},{url:"manifest.webmanifest",revision:"57439dbce5a2c575d7bbf99676e164bf"}],{}),e.cleanupOutdatedCaches(),e.registerRoute(new e.NavigationRoute(e.createHandlerBoundToURL("index.html")))}));
+if(!self.define){let e,i={};const a=(a,s)=>(a=new URL(a+".js",s).href,i[a]||new Promise((i=>{if("document"in self){const e=document.createElement("script");e.src=a,e.onload=i,document.head.appendChild(e)}else e=a,importScripts(a),i()})).then((()=>{let e=i[a];if(!e)throw new Error(`Module ${a} didn’t register its module`);return e})));self.define=(s,n)=>{const r=e||("document"in self?document.currentScript.src:"")||location.href;if(i[r])return;let c={};const d=e=>a(e,r),o={module:{uri:r},exports:c,require:d};i[r]=Promise.all(s.map((e=>o[e]||d(e)))).then((e=>(n(...e),c)))}}define(["./workbox-fa446783"],(function(e){"use strict";self.skipWaiting(),e.clientsClaim(),e.precacheAndRoute([{url:"assets/index-60319aa1.js",revision:null},{url:"assets/index-e0ca7d98.css",revision:null},{url:"index.html",revision:"6f0142afc46f0e07b2d3d71e171b2242"},{url:"registerSW.js",revision:"1872c500de691dce40960bb85481de07"},{url:"321.mp3",revision:"3bd591d610049c259f3768fd35f8ba0f"},{url:"audio-speaker-off.png",revision:"e46a88ab8493f86764cbe64dd250adf5"},{url:"audio-speaker-on.png",revision:"0f68480c86cd9569a7bd660ea0b1abb1"},{url:"bg.mp3",revision:"1939fe9c9d71e53d960f581d068bd9ed"},{url:"click.mp3",revision:"0549e1376c71663510db6425f2b10d4e"},{url:"pwa-logo.png",revision:"ecc5baf4ff30ede170fc950900658b74"},{url:"assets/img/12_14_finished.png",revision:"a870acbf48cc8d64d949abd03ab92052"},{url:"assets/img/ball_light.png",revision:"11ffa497bd4e6f5ba8789b584b464348"},{url:"assets/img/black_bg.png",revision:"2c019e9e6bccf9f989349f8b4902df4d"},{url:"assets/img/charm.png",revision:"7a59770e7caaa60af67a447a67f842f1"},{url:"assets/img/charm_bg.png",revision:"8cbacc76583d1c30f68951fdd04853a2"},{url:"assets/img/charm_shadow.png",revision:"86b80104720873d004d1647e19a723f3"},{url:"assets/img/dragon_right_big.png",revision:"ab83fd69d5b4f3120fda3eeabe7624b5"},{url:"assets/img/dragon_right_small.png",revision:"684a7760bf27b17b2f04fa6dcb6ebe5e"},{url:"assets/img/final_bg.png",revision:"407d758e0a49c25dd1c33995f34a4c5e"},{url:"assets/img/game_ball.png",revision:"deae6db0f7233ab3299a7c1adbca2372"},{url:"assets/img/game_ball_cloud.png",revision:"5c66e37a987089a9a03389eccf4bf39a"},{url:"assets/img/game_ball_infinite.png",revision:"eb7bb876bad1c0e7d6a8a3e12f31939e"},{url:"assets/img/game_ball_shadow.png",revision:"f14fabcca4dcf82a15e244795d04088c"},{url:"assets/img/game_ball_star.png",revision:"adc6fa1f181f27739f247749d7174809"},{url:"assets/img/game_ball_wind.png",revision:"cc1724b3a3a0015b55884a11a5a0156b"},{url:"assets/img/game_bg.png",revision:"266fa85d2f8a6e8577a09583253ad348"},{url:"assets/img/game_count_down_1.png",revision:"f859b94ffa931eb4905349206055dc31"},{url:"assets/img/game_count_down_2.png",revision:"4fd6d3c6a62e7bfd9ae5c13058d5c640"},{url:"assets/img/game_count_down_3.png",revision:"f5cea6cd0ee93bd623e5185a77307eda"},{url:"assets/img/game_frame.png",revision:"d4c0c7479a3e64ad69362b318e416d94"},{url:"assets/img/game_header.png",revision:"28bfb3ca5717aa08a1f29a76af22f076"},{url:"assets/img/game_intro_bg.png",revision:"1cc102c7f1f418e3e3d1d65a71c6ade2"},{url:"assets/img/ground.png",revision:"3d676879acc881ff0c9f6a341cfcd5a8"},{url:"assets/img/index_title.png",revision:"b46a6cd97f431cc5642c1f8f71c2bd1a"},{url:"assets/img/intro_2_main.png",revision:"2b25254eb89d6118aefe39fd1d9f570f"},{url:"assets/img/intro_2_title.png",revision:"e5a29516eb7efd52bb9f2b3145807ed2"},{url:"assets/img/left_down_cloud.png",revision:"ea9a97fd0861b55bfc00664f990103a4"},{url:"assets/img/logo.png",revision:"5ea8c0e167ad97e21d6dd32295f53a2a"},{url:"assets/img/logo_left_top.png",revision:"5105f4b42da1e5adb9f9ba970a388788"},{url:"assets/img/main_product_full.png",revision:"f9c457d9e6534de2df7f7a8f104045ba"},{url:"assets/img/right_belt_slogan.png",revision:"2e2d8f48c4ab5a5ae8df706fb001f499"},{url:"assets/img/right_down_belt_without_slogan.png",revision:"162d7093e3735f6eb114ea09f10d1169"},{url:"assets/img/right_top_play_button.png",revision:"1d8f6b2392822e67f1ed8721a7282989"},{url:"assets/img/side_dragon.png",revision:"8a5c14fc23b1c3e5de418f4cbfeaa7ec"},{url:"assets/img/wave_ground.png",revision:"2e6c8f7ec31b53c681ae5e4fb721f08f"},{url:"assets/img/woman.png",revision:"7a0e3bb88a54e81e1091a5b846b8bf45"},{url:"assets/img/yellow_bg.png",revision:"9aee5a12e6b5cdd2dacf847ac39b736f"},{url:"img/icons/android-chrome-192x192.png",revision:"3ef4a95391ff2bfd5f442ea89292b3fa"},{url:"img/icons/android-chrome-512x512.png",revision:"4fd10861636b509a53d091e1c6cd8f64"},{url:"img/icons/android-chrome-maskable-192x192.png",revision:"3ef4a95391ff2bfd5f442ea89292b3fa"},{url:"img/icons/android-chrome-maskable-512x512.png",revision:"4fd10861636b509a53d091e1c6cd8f64"},{url:"img/icons/apple-touch-icon-120x120.png",revision:"c24de0bfa43e42fd8568d1b38262c4c3"},{url:"img/icons/apple-touch-icon-152x152.png",revision:"de8e6c5c1e047c79711200a9529be00e"},{url:"img/icons/apple-touch-icon-180x180.png",revision:"f66b5015d880335cb607d474025316e8"},{url:"img/icons/apple-touch-icon-60x60.png",revision:"91035985e360cd3b9e443066bccdc53a"},{url:"img/icons/apple-touch-icon-76x76.png",revision:"c14d8293625bbec500e0e9dec5848336"},{url:"img/icons/apple-touch-icon.png",revision:"f66b5015d880335cb607d474025316e8"},{url:"img/icons/favicon-16x16.png",revision:"49610a9d0e3026ebfaec1aa32f22b67f"},{url:"img/icons/favicon-32x32.png",revision:"e3c7c3355821030a05ac1e54e105e973"},{url:"img/icons/msapplication-icon-144x144.png",revision:"4db12ddb2969ae559fe8cc63810e7747"},{url:"img/icons/mstile-150x150.png",revision:"8bf70c634505b233c8b293cf3a749278"},{url:"img/icons/safari-pinned-tab.svg",revision:"86b564b18ea6c7e170fa6cb87ca03bcf"},{url:"manifest.webmanifest",revision:"57439dbce5a2c575d7bbf99676e164bf"}],{}),e.cleanupOutdatedCaches(),e.registerRoute(new e.NavigationRoute(e.createHandlerBoundToURL("index.html")))}));

diff --git a/src/assets/main.scss b/src/assets/main.scss
@@ -131,7 +131,7 @@ main{
         width: 100%;
         height: 100%;
         background-image: url("../assets/img/main_product_full.png");
-        background-position: top center;
+        background-position: top 80px center;
         background-repeat: no-repeat;
         background-size: cover;
         z-index: 1;
@@ -307,7 +307,7 @@ main{
 
     .dragon_right_small{
         position: absolute;
-        bottom: 20%;
+        bottom: 15%;
         right: 0%;
         width: 20%;
         height: 72%;
@@ -447,7 +447,7 @@ main{
             transform: translateY(0) rotate(0deg);
         }
         50% {
-            transform: translateY(-30px) rotate(-3deg);
+            transform: translate(-30px, -30px) rotate(-3deg);
         }
         100% {
             transform: translateY(0) rotate(0deg);
@@ -455,15 +455,15 @@ main{
     }
 
     .game_dragon {
-        position: absolute;
-        top: 25%;
-        left: 0;
-        width: 50%;
-        height: 40%;
         background-image: url("../assets/img/side_dragon.png");
+        position: absolute;
+        top: 0;
+        left: 0;
+        width: 100%;
+        height: 100%;
         background-position: center left;
         background-repeat: no-repeat;
-        background-size: 175%;
+        background-size: 100%;
         z-index: 1;
         animation: floatAnimation 6s infinite;
     }

diff --git a/docs/index.html b/docs/index.html
@@ -52,8 +52,8 @@
       font-weight: 900;
     }
   </style>
-  <script type="module" crossorigin src="/assets/index-c2d608b2.js"></script>
-  <link rel="stylesheet" href="/assets/index-b5266563.css">
+  <script type="module" crossorigin src="/assets/index-60319aa1.js"></script>
+  <link rel="stylesheet" href="/assets/index-e0ca7d98.css">
 <link rel="manifest" href="/manifest.webmanifest"><script id="vite-plugin-pwa:register-sw" src="/registerSW.js"></script></head>
 
 <body>
